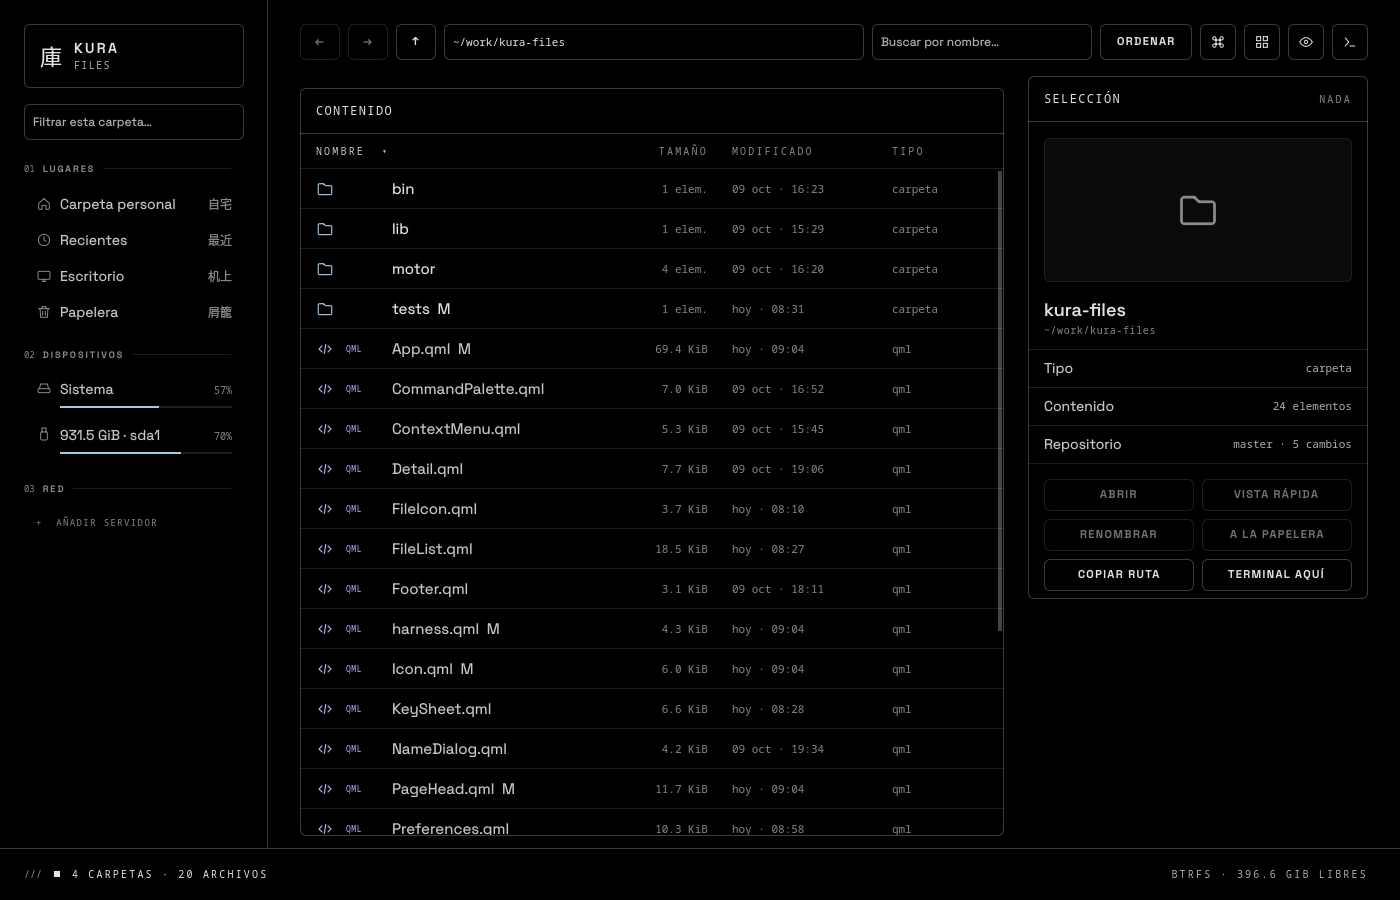
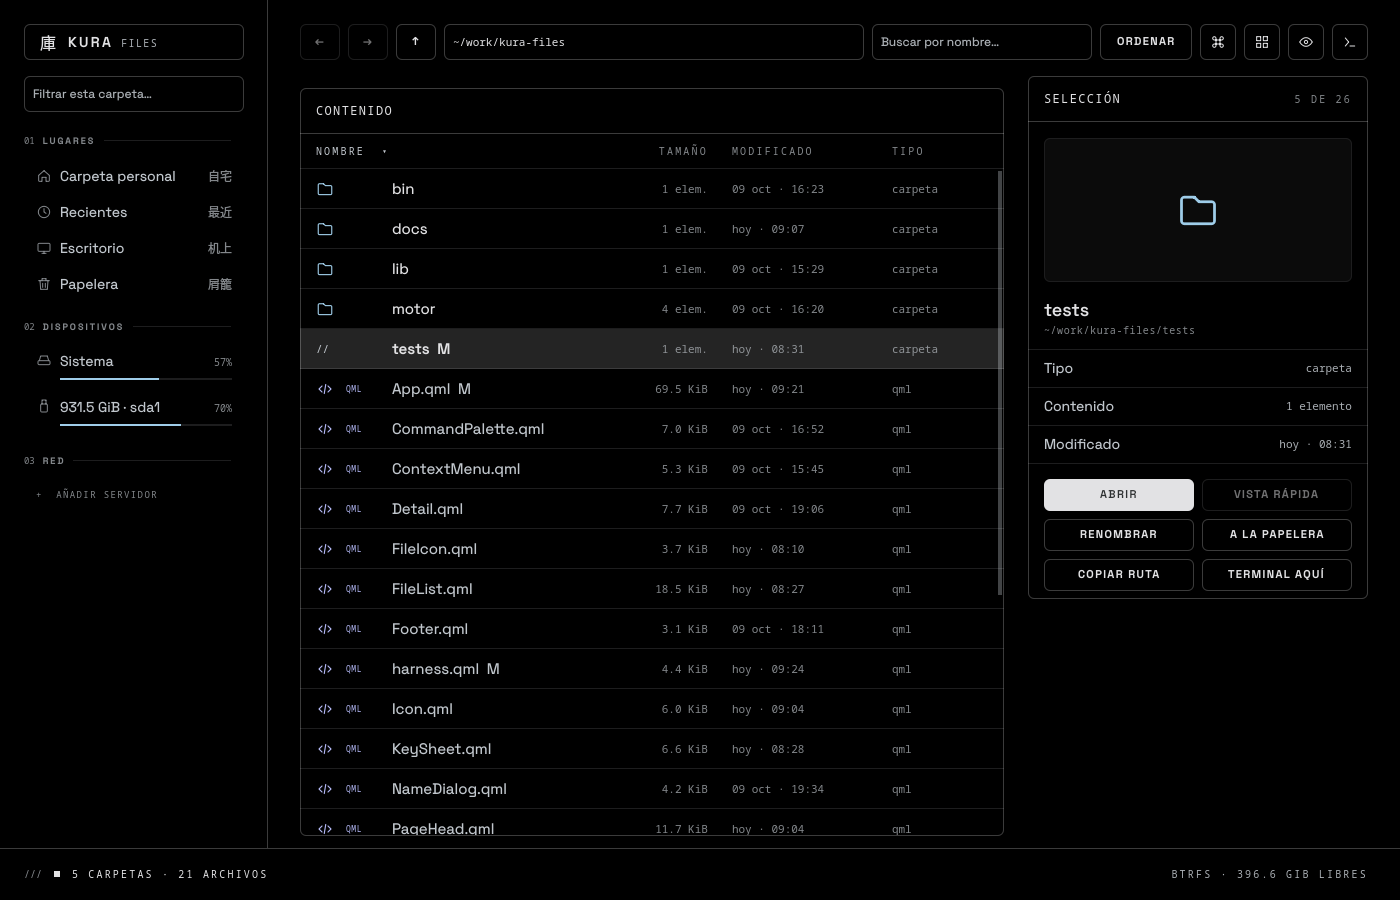
keep one brand on one line, show the selection panel on demand

diff --git a/App.qml b/App.qml
@@ -67,7 +67,7 @@ Item {
     // The layout sheds pieces as the window shrinks: the selection card first,
     // then the rail, then the roomy page header.
     property bool railForced: false
-    readonly property bool showDetail: width >= 1180
+    readonly property bool showDetail: width >= 1180 && (current >= 0 || markedCount > 0)
     readonly property bool showRail: width >= 860 || railForced
     // full, compact or minimal: how much room the folder's name takes.
     readonly property string header: settings.header
@@ -88,9 +88,7 @@ Item {
     property bool noticeBad: false
 
     readonly property string engine: decodeURIComponent(Qt.resolvedUrl("motor/target/release/archivos-motor").toString().replace("file://", ""))
-    readonly property var brand: settings.brand === "ryoku"
-        ? { mark: "力", name: "RYOKU FILES", tag: "RYOKU // FILES", title: "Ryoku Files" }
-        : { mark: settings.ownMark, name: settings.ownName, tag: settings.ownTag, title: settings.ownTitle }
+    readonly property var brand: ({ mark: settings.ownMark, name: settings.ownName, tag: settings.ownTag, title: settings.ownTitle })
 
     readonly property int total: rows.length
     readonly property int folderTotal: dir.count
@@ -355,10 +353,6 @@ Item {
     function copyPath(p) {
         Spawn.run(["wl-copy", "--", p]);
         say("RUTA COPIADA");
-    }
-    function toggleBrand() {
-        settings.brand = settings.brand === "ryoku" ? "own" : "ryoku";
-        settingsFile.writeAdapter();
     }
 
     function say(text, bad) {
@@ -952,7 +946,6 @@ Item {
         add("Ajustes", "CTRL+,", () => prefs.open());
         add("Propiedades", "CTRL+I", () => properties());
         add("Ver los atajos de teclado", "F1", () => keysSheet.open());
-        add("Cambiar la marca", "ACCIÓN", () => toggleBrand());
         for (const b of bookmarks)
             add("Ir a " + b.name, "MARCADOR", () => go(b.path));
         for (const p of places)
@@ -1275,7 +1268,6 @@ Item {
 
         JsonAdapter {
             id: settings
-            property string brand: "own"
             property bool grid: false
             property var servers: []
             property bool dual: false

diff --git a/Rail.qml b/Rail.qml
@@ -63,7 +63,7 @@ Item {
 
         Rectangle {
             width: parent.width
-            height: 64
+            height: 36
             color: "transparent"
             radius: Tokens.radius
             border.width: Tokens.border
@@ -77,13 +77,15 @@ Item {
                     text: rail.app.brand.mark
                     color: Tokens.ink
                     font.family: Tokens.jp
-                    font.pixelSize: 22
+                    font.pixelSize: 16
+                    anchors.verticalCenter: parent.verticalCenter
                 }
-                Column {
-                    spacing: 1
+                Row {
+                    spacing: 8
                     anchors.verticalCenter: parent.verticalCenter
 
                     Text {
+                        id: brandName
                         text: rail.app.brand.name
                         color: Tokens.ink
                         font.family: Tokens.ui
@@ -92,17 +94,16 @@ Item {
                         font.letterSpacing: 2.4
                     }
                     Text {
-                        visible: text !== ""
+                        visible: text !== "" && brandName.width + implicitWidth < rail.width - 110
                         text: rail.app.brand.tag
                         color: Tokens.inkMuted
                         font.family: Tokens.mono
                         font.pixelSize: 10
                         font.letterSpacing: 1.4
+                        anchors.baseline: brandName.baseline
                     }
                 }
             }
-            HoverHandler { cursorShape: Qt.PointingHandCursor }
-            TapHandler { onTapped: rail.app.toggleBrand() }
         }
 
         Field {

diff --git a/Preferences.qml b/Preferences.qml
@@ -156,17 +156,7 @@ Item {
 
                 Head { number: 1; label: "MARCA" }
                 Line {
-                    label: "Nombre que se muestra"
-                    Seg {
-                        anchors.right: parent.right
-                        anchors.verticalCenter: parent.verticalCenter
-                        options: ["PROPIA", "RYOKU FILES"]
-                        current: sheet.store.brand === "ryoku" ? "RYOKU FILES" : "PROPIA"
-                        onChose: key => sheet.app.setPref("brand", key === "PROPIA" ? "own" : "ryoku")
-                    }
-                }
-                Line {
-                    label: "Nombre propio"
+                    label: "Nombre"
                     Field { anchors.right: parent.right; anchors.verticalCenter: parent.verticalCenter; width: 240; text: sheet.store.ownName; onCommitted: value => sheet.app.setPref("ownName", value) }
                 }
                 Line {

diff --git a/shell.qml b/shell.qml
@@ -41,7 +41,6 @@ ShellRoot {
         function open(): void { app.open(app.current); }
         function look(): void { app.quickLook(); }
         function menu(x: int, y: int): void { app.contextMenu(x, y); }
-        function brand(): void { app.toggleBrand(); }
         function copy(): void { app.hold(false); }
         function cut(): void { app.hold(true); }
         function paste(): void { app.paste(); }

diff --git a/harness.qml b/harness.qml
@@ -47,6 +47,7 @@ ShellRoot {
                 query: app.query,
                 deep: app.deep,
                 hidden: app.showHidden,
+                detail: app.showDetail,
                 digest: app.digest,
                 grid: app.grid,
                 notice: app.notice,
